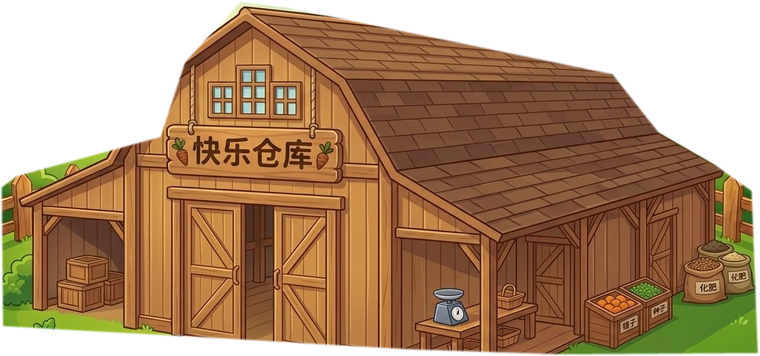
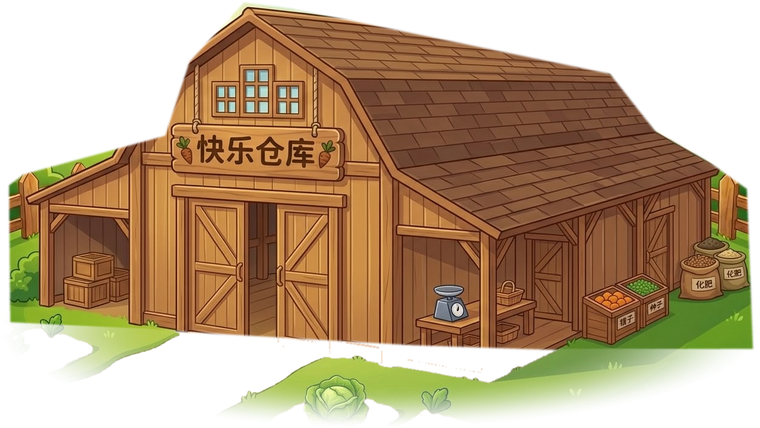
polish(美术): 谷仓带原图草地裙边渐隐融入草坪
按 Chris：周边背景也带一些进来，别突兀。
- 抠图脚本加椭圆渐隐裙边：谷仓脚下一圈原插画草地/灌木/小白菜随建筑
  保留，向外 smoothstep 化开融进游戏草坪；只作用于植被/土路色，
  棕色栅栏不吃进来(避免半透明断桩)
- 地面椭圆影减淡(0.34→0.20)，裙边已提供接地
- 抠图脚本入库 scripts/cut_barn.py(轮廓多边形+行扫描边界+裙边参数)

diff --git a/src/css/style.css b/src/css/style.css
@@ -1424,7 +1424,8 @@ body {
   bottom: 16px;          /* under the barn base, above the label */
   height: 16px;
   border-radius: 50%;
-  background: radial-gradient(ellipse at 50% 50%, rgba(45, 70, 12, 0.34) 0%, rgba(45, 70, 12, 0) 70%);
+  /* skirt 自带原图草地接地，椭圆影只留一点点托底 */
+  background: radial-gradient(ellipse at 50% 50%, rgba(45, 70, 12, 0.20) 0%, rgba(45, 70, 12, 0) 70%);
   pointer-events: none;
 }
 .warehouse-btn .warehouse-img {

diff --git a/scripts/cut_barn.py b/scripts/cut_barn.py
@@ -1,0 +1,78 @@
+# -*- coding: utf-8 -*-
+# Cut the 快乐仓库 barn from its background along a hand-traced silhouette.
+# Supersampled polygon mask + slight feather → clean cartoon edge.
+from PIL import Image, ImageDraw, ImageFilter
+
+SRC = r'D:\Pictures\farm pictures\WhatsApp Image 2026-06-11 at 8.59.00 AM.jpeg'
+OUT = r'D:\easternmarket.ca\eastern-farm\src\assets\images\warehouse-barn.png'
+PREVIEW = r'C:\Users\yue00\AppData\Local\Temp\farm_test\barn_cut_preview.png'
+
+# Silhouette vertices (clockwise, original 1408x768 coords), traced from the
+# 50px grid overlay. Slightly inside the dark cartoon outline so no
+# background bleeds; bottom follows the wall/post base line.
+POLY = [
+    (96, 556),    # left lean-to outer post base
+    (94, 330),    # left lean-to roof outer top corner
+    (118, 312),   # roof lip
+    (352, 248),   # lean-to roof meets main wall
+    (392, 126),   # gambrel knee (left)
+    (482, 28),    # front ridge peak
+    (560, 38),    # ridge running right-back
+    (1086, 146),  # ridge right end (per row-scan of wood edge)
+    (1160, 240),  # right roof edge (scan: x grows ~0.75/row)
+    (1250, 292),  # roof → lean-to transition
+    (1312, 336),  # right lean-to roof outer corner
+    (1322, 600),  # right lean-to outer post base (fence starts ≥1335 — avoid)
+    (1000, 602),
+    (760, 594),
+    (620, 586),
+    (420, 574),
+    (200, 562),
+]
+
+img = Image.open(SRC).convert('RGBA')
+W, H = img.size
+S = 3
+mask_big = Image.new('L', (W * S, H * S), 0)
+d = ImageDraw.Draw(mask_big)
+d.polygon([(x * S, y * S) for (x, y) in POLY], fill=255)
+mask = mask_big.resize((W, H), Image.LANCZOS).filter(ImageFilter.GaussianBlur(1.2))
+
+# ===== 周边裙边（2026-06-11 Chris：带点原图环境，别太突兀）=====
+# 椭圆渐隐 alpha 把谷仓脚下的草地/灌木/土路一圈带进来，往外柔和化开，
+# 融进游戏草坪。只作用于"植被/土路"色（绿系或亮土色），木栅栏(棕色)
+# 不吃进来——免得出现半透明断桩。
+import numpy as np
+arr = np.asarray(img.convert('RGB')).astype(np.int16)
+R, G, B = arr[:, :, 0], arr[:, :, 1], arr[:, :, 2]
+veg = (G > R + 8) & (G > B + 8)                         # 草/灌木
+path = (R > 195) & (G > 160) & (B > 115) & (R > B + 40) # 亮土路
+skirtable = veg | path
+
+cx, cy, rx, ry = 705.0, 568.0, 640.0, 165.0
+ys, xs = np.mgrid[0:H, 0:W]
+dist = np.sqrt(((xs - cx) / rx) ** 2 + ((ys - cy) / ry) ** 2)
+# 核心(0.55内)不透明度 ~210，向 1.0 衰减到 0；柔和 smoothstep
+t = np.clip((1.0 - dist) / 0.45, 0, 1)
+skirt = (t * t * (3 - 2 * t) * 215).astype(np.uint8)
+skirt[~skirtable] = 0
+
+mask_np = np.asarray(mask, dtype=np.uint8)
+final = np.maximum(mask_np, skirt)
+mask = Image.fromarray(final, 'L').filter(ImageFilter.GaussianBlur(0.8))
+
+img.putalpha(mask)
+bbox = mask.getbbox()
+cut = img.crop(bbox)
+
+# Downscale for the button (renders ~200 CSS px wide → 760 covers 2-3x DPR)
+tw = 760
+cut = cut.resize((tw, int(cut.height * tw / cut.width)), Image.LANCZOS)
+cut.save(OUT, optimize=True)
+print('saved', OUT, cut.size)
+
+# Preview on a game-lawn-like green so edge quality is visible
+bg = Image.new('RGBA', (cut.width + 80, cut.height + 80), (163, 192, 50, 255))
+bg.alpha_composite(cut, (40, 40))
+bg.convert('RGB').save(PREVIEW)
+print('saved preview')
